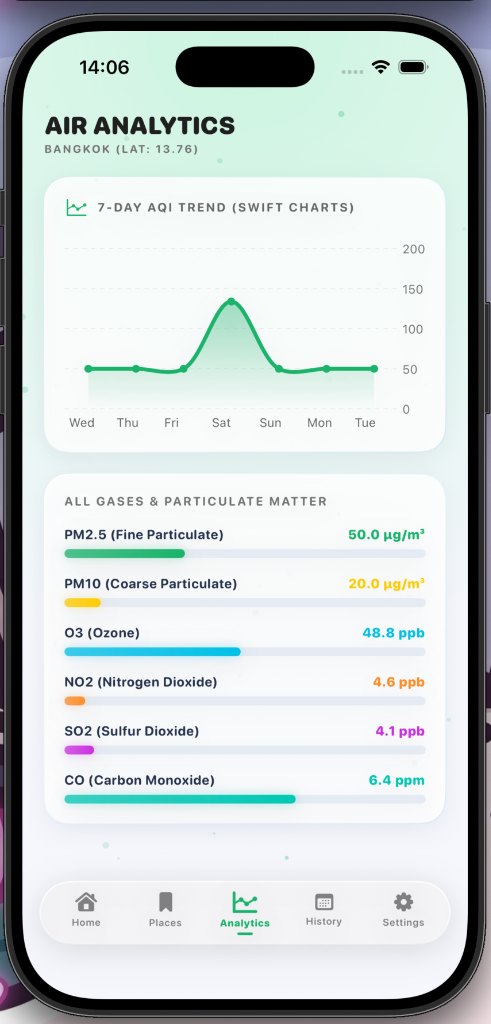
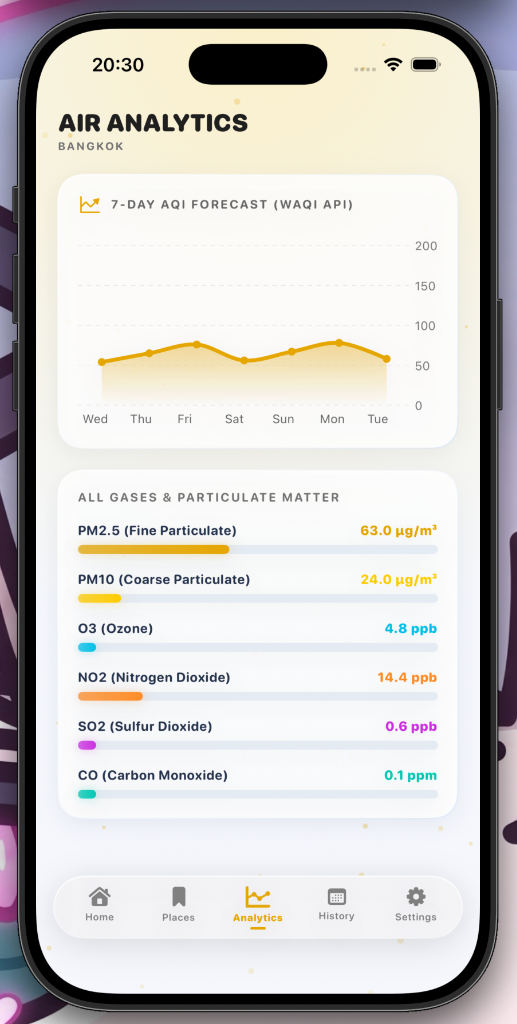
Update README.md and refresh screenshots for Analytics, History, and Settings views

diff --git a/README.md b/README.md
@@ -45,12 +45,12 @@ AirSense is a modern iOS application designed to monitor real-time Air Quality I
    - Save favorite locations (Home, Office, University).
    - Live location autocomplete search powered by `MKLocalSearchCompleter` and interactive `MapKit` pin placement (`MapReader`).
 
-4. **📊 Location Analytics & Comparative Charts**
-   - Detailed AQI trends, pollutant breakdown statistics, and historical comparative data visualization.
+4. **📊 Location Analytics & 7-Day Forecast Charts**
+   - Detailed 7-day AQI future forecast powered by WAQI API, pollutant breakdown statistics (PM2.5, PM10, O3, NO2, SO2, CO), and interactive data visualization.
 
 5. **🗓 Exposure History & Heatmap Log**
    - Monthly calendar heatmap tracking daily personal exposure levels.
-   - Clean color-coded day tiles, severity legend, and PDF/CSV report export option.
+   - Clean color-coded day tiles, severity legend, and daily log breakdown.
 
 6. **🌐 Bilingual & Modern Glassmorphism UI**
    - Dynamic **Thai 🇹🇭 / English 🇺🇸** language switching (`@AppStorage`).
